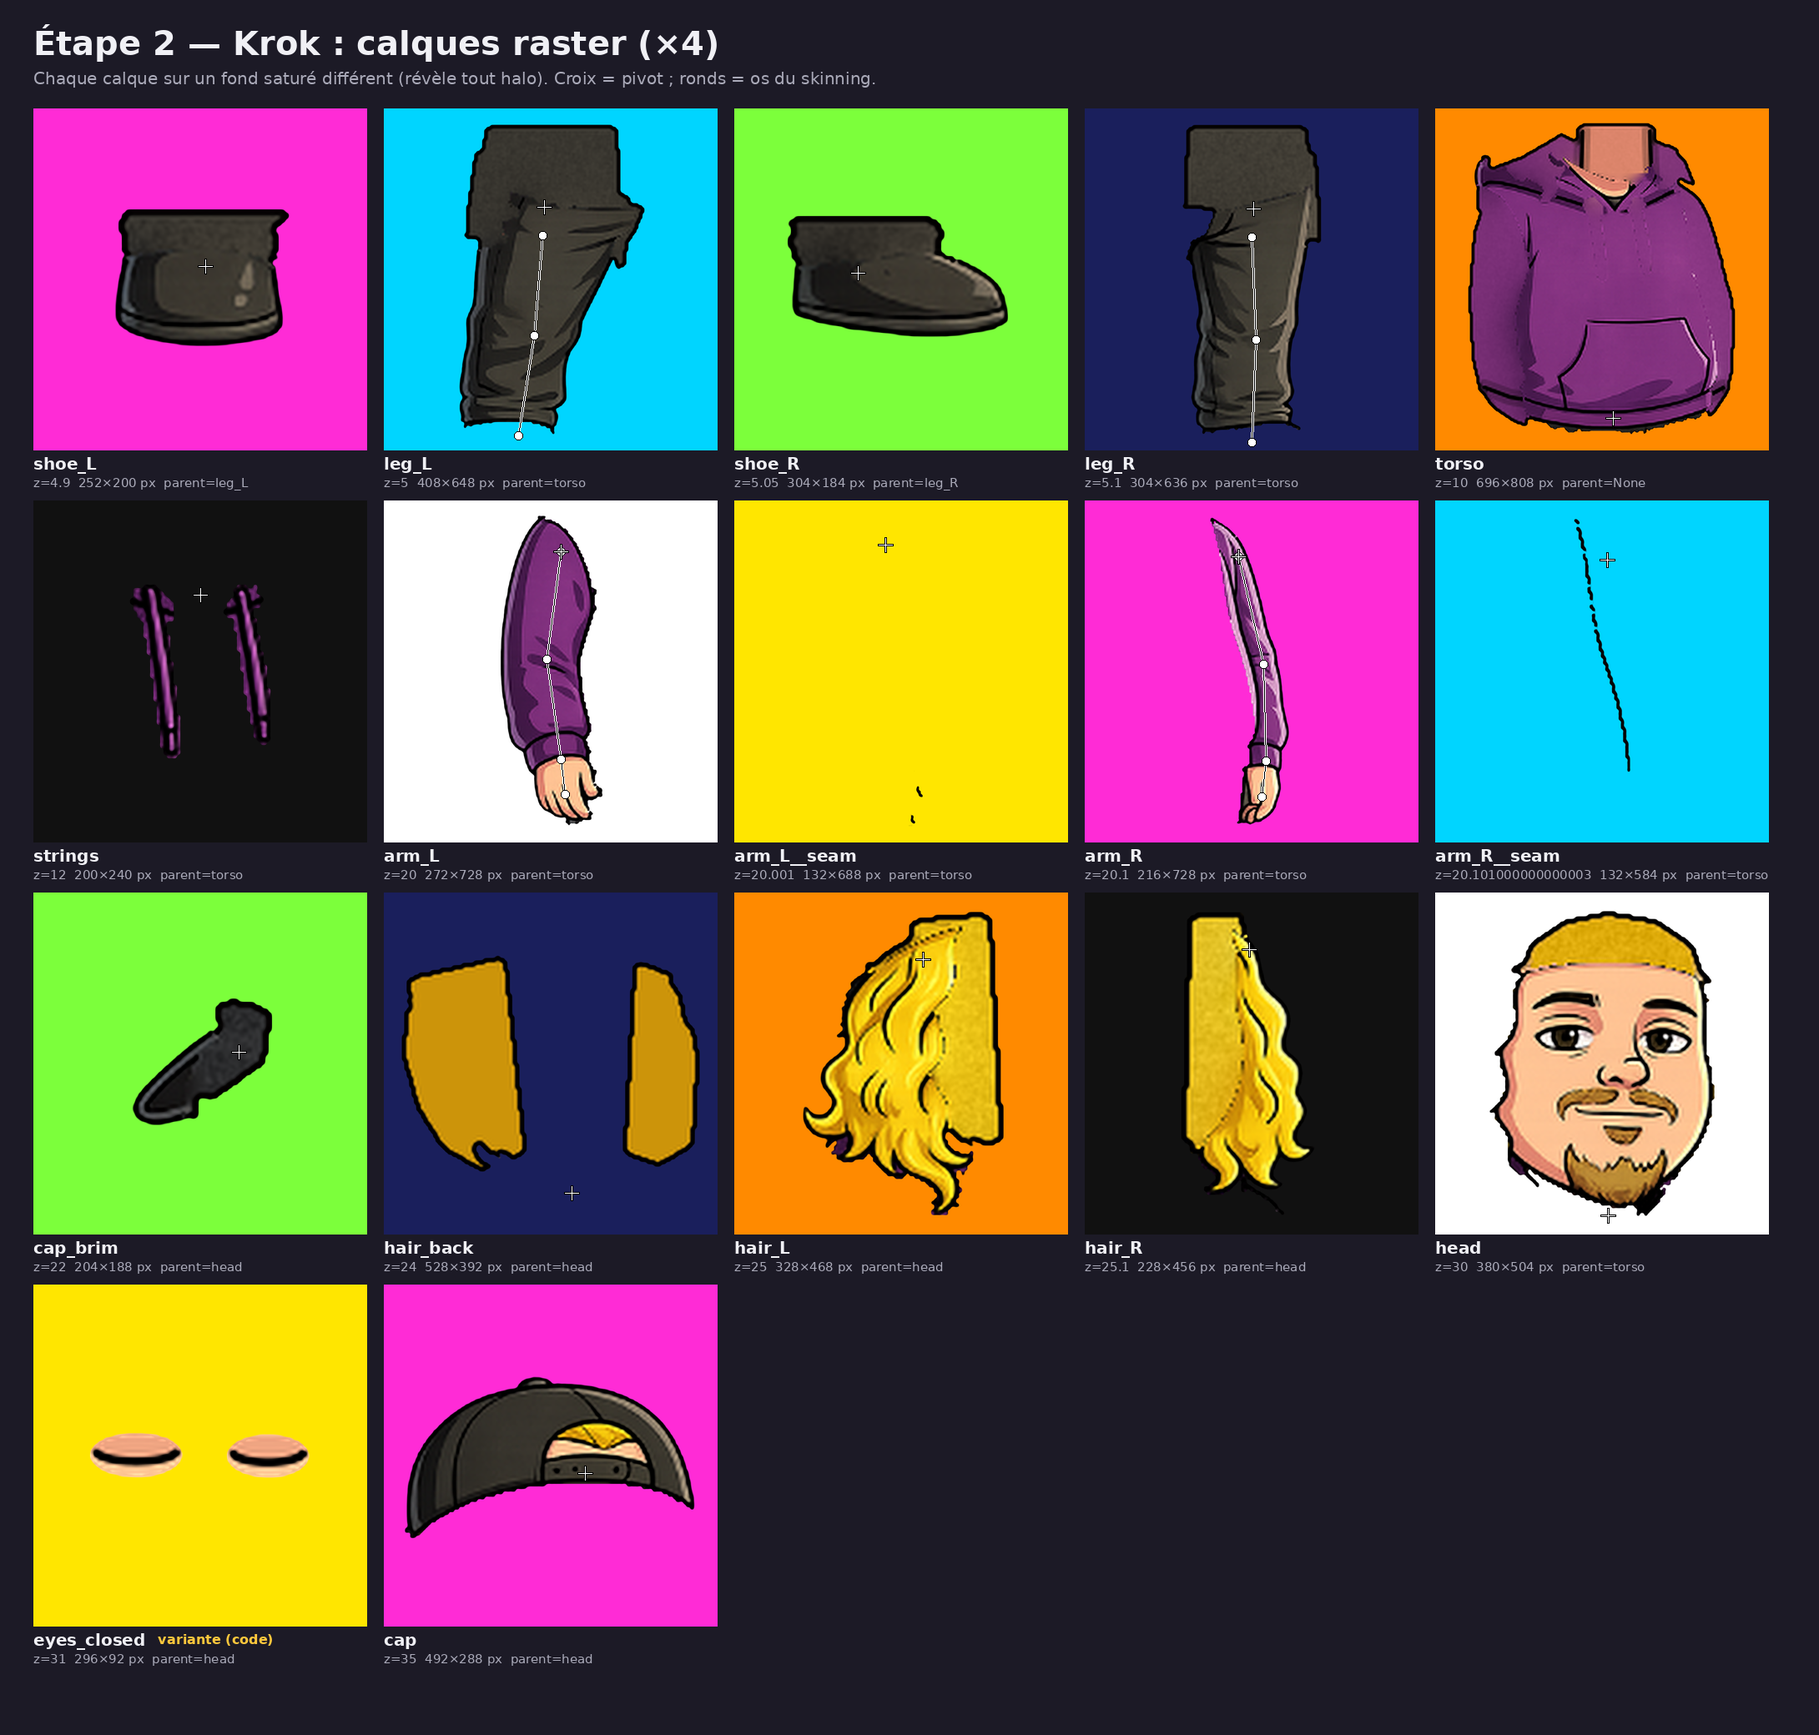
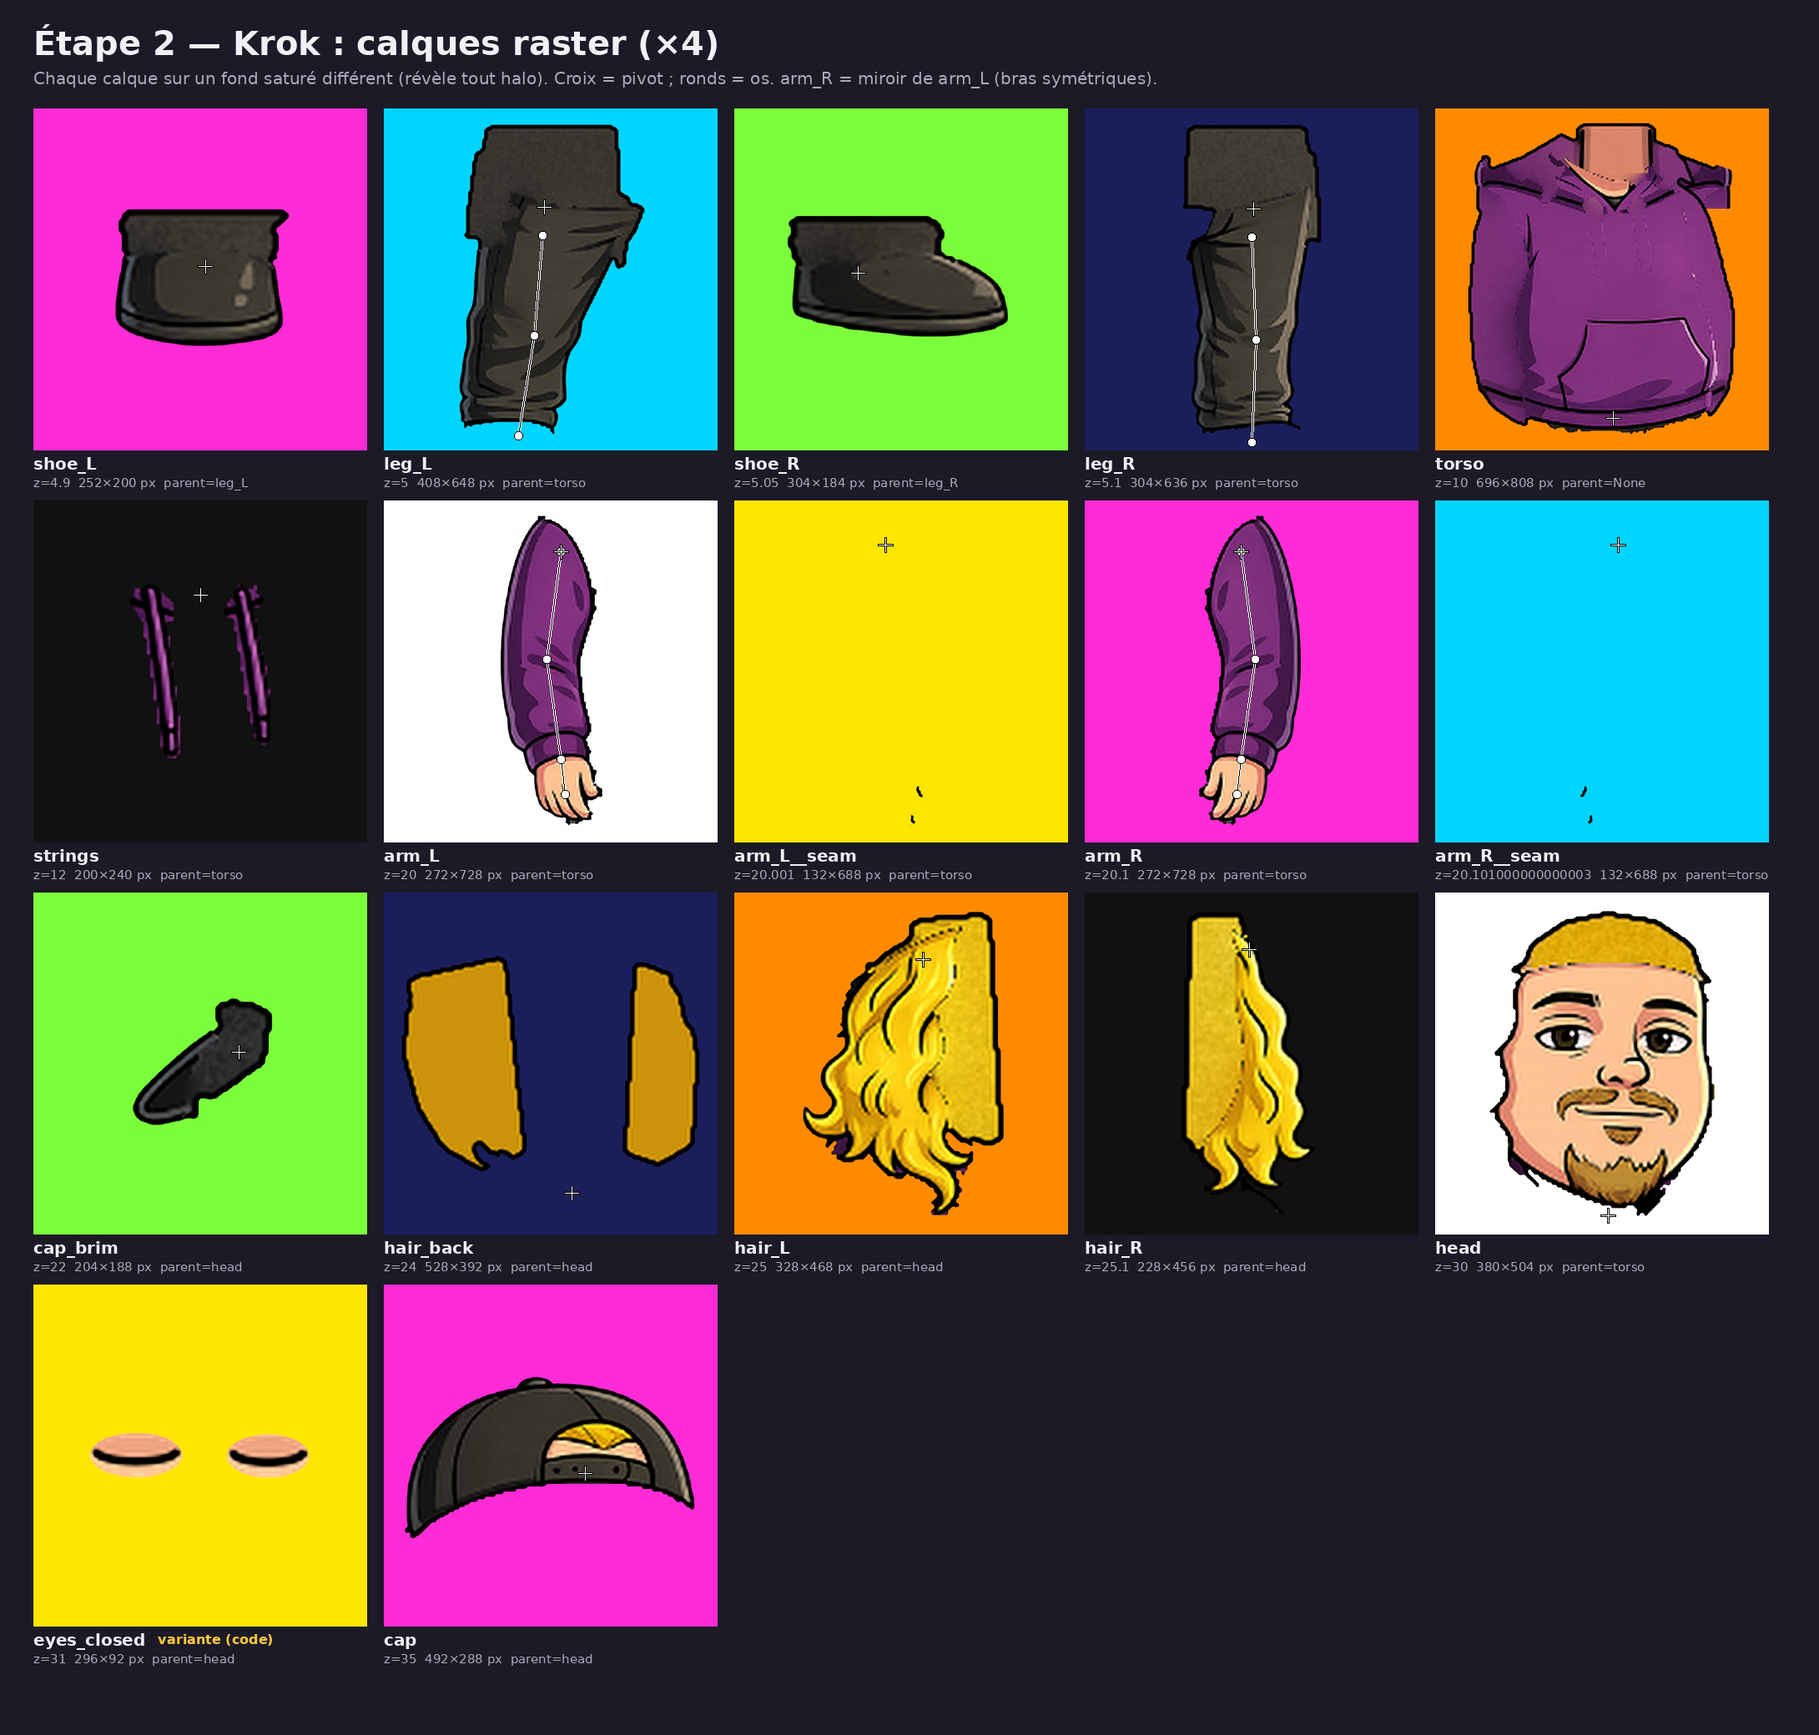
Étape 2 : bras symétriques pour Krok et Mil
Les références de trois-quarts ont un bras bien plus fin que l'autre (Krok :
manche droite de profil ~20 u contre ~46 ; Mil : bras gauche ~22 px contre ~37),
ce qui se voit dès que les bras bougent. Le bras fin est remplacé par le miroir
exact du bras complet, placé à l'épaule opposée (même largeur, même main, même
longueur). Chez Krok, le haut de capuche est recopié en miroir sous la nouvelle
épaule. Contrôle automatique : 0 bord sans encre, vides 43 -> 14 (naturels).

Claude-Session: https://claude.ai/code/session_016mvXePkr8w5udDZGe41u2R

Changed region(s): [[0.655, 0.2812, 0.7174, 0.5], [0.9046, 0.0938, 0.967, 0.125], [0.4367, 0.0312, 0.4679, 0.0625]]

diff --git a/krok-et-mil-intro/tools/charkit/symmetry.py b/krok-et-mil-intro/tools/charkit/symmetry.py
@@ -1,0 +1,104 @@
+"""Symétrisation des bras.
+
+Les références sont dessinées de trois-quarts : un bras est nettement plus fin que l'autre
+(Krok : manche droite vue de profil, ~20 px contre ~45 ; Mil : bras gauche ~22 px contre ~37).
+En animation cet écart saute aux yeux. Le bras fin est donc remplacé par le miroir du bras
+complet, placé à l'épaule opposée (axe de symétrie = milieu des deux épaules).
+
+`shading="mirror"` : le modelé est retourné avec la forme (cas de Krok : le liseré clair passe
+sur le bord extérieur du bras droit, côté de sa lumière de contre-jour).
+`shading="keep"` : la silhouette et les traits sont retournés mais l'ombrage intérieur garde
+le sens d'origine (cas de Mil, éclairé par la gauche : le reflet reste à gauche de chaque bras).
+"""
+import numpy as np
+
+from .img import luminance
+
+
+def mirror_x(L, axis):
+    """Miroir horizontal exact (par indices) d'un calque autour de x = axis (px src)."""
+    h, w = L.shape[:2]
+    out = np.zeros_like(L)
+    k = int(round(2 * axis)) - 1  # x' = k - x
+    xs = np.arange(w)
+    src = k - xs
+    ok = (src >= 0) & (src < w)
+    out[:, xs[ok]] = L[:, src[ok]]
+    return out
+
+
+def mirror_point(p, axis):
+    return (2 * axis - p[0], p[1])
+
+
+def _row_extent(alpha_row, thr=0.5):
+    xs = np.where(alpha_row > thr)[0]
+    if len(xs) == 0:
+        return None
+    return xs.min(), xs.max()
+
+
+def mirror_keep_shading(L, axis, line_lum=0.28):
+    """Silhouette et traits retournés, ombrage intérieur conservé dans son sens d'origine."""
+    M = mirror_x(L, axis)
+    out = M.copy()
+    h, w = L.shape[:2]
+    lumM = luminance(M[..., :3])
+    for y in range(h):
+        eM = _row_extent(M[y, :, 3])
+        eL = _row_extent(L[y, :, 3])
+        if eM is None or eL is None:
+            continue
+        cM = 0.5 * (eM[0] + eM[1])
+        cL = 0.5 * (eL[0] + eL[1])
+        xs = np.arange(eM[0], eM[1] + 1)
+        inner = (M[y, xs, 3] > 0.9) & (lumM[y, xs] > line_lum)
+        if not inner.any():
+            continue
+        src = np.clip(np.round(cL + (xs - cM)).astype(int), eL[0], eL[1])
+        srcok = (L[y, src, 3] > 0.9) & (luminance(L[y, src, :3]) > line_lum)
+        sel = inner & srcok
+        out[y, xs[sel], :3] = L[y, src[sel], :3]
+    return out
+
+
+def symmetrize(layers, parts_meta, rule):
+    """Remplace layers[rule['part']] par le miroir de layers[rule['of']] ; met à jour pivot et os.
+
+    rule = {"part": "arm_R", "of": "arm_L", "axis": 256.0, "shading": "mirror"|"keep"}
+    """
+    if "patch_under" in rule:
+        n = rule["patch_under"]
+        layers[n] = mirror_patch_under(layers[n], rule["poly"], float(rule["axis"]))
+        return layers
+    src, dst, axis = rule["of"], rule["part"], float(rule["axis"])
+    fn = mirror_x if rule.get("shading", "mirror") == "mirror" else mirror_keep_shading
+    layers[dst] = fn(layers[src], axis)
+    if src + "__seam" in layers:
+        layers[dst + "__seam"] = mirror_x(layers[src + "__seam"], axis)
+    smeta = next(m for m in parts_meta if m["name"] == src)
+    dmeta = next(m for m in parts_meta if m["name"] == dst)
+    if "pivot" in smeta:
+        dmeta["pivot"] = mirror_point(smeta["pivot"], axis)
+    if "bones" in smeta:
+        dmeta["bones"] = {k: mirror_point(v, axis) for k, v in smeta["bones"].items()}
+    for k in ("blend", "widen"):
+        dmeta.pop(k, None)
+        if k in smeta:
+            dmeta[k] = smeta[k]
+    dmeta["mirror_of"] = src
+    return layers
+
+
+def mirror_patch_under(L, poly, axis):
+    """Recopie en miroir une zone du calque (polygone, côté source) SOUS le calque existant :
+    seuls les vides du côté opposé sont comblés (ex. haut de capuche au-dessus d'une épaule)."""
+    from .layers import aa_poly_mask
+    m = aa_poly_mask(L.shape[:2], poly)
+    src = L.copy()
+    src[..., 3] *= m
+    P = mirror_x(src, axis)
+    a, pa = L[..., 3:4], P[..., 3:4]
+    oa = a + pa * (1 - a)
+    oc = (L[..., :3] * a + P[..., :3] * pa * (1 - a)) / np.maximum(oa, 1e-6)
+    return np.concatenate([oc, oa], 2)

diff --git a/krok-et-mil-intro/tools/build_characters.py b/krok-et-mil-intro/tools/build_characters.py
@@ -17,6 +17,7 @@ from charkit.segment import segment  # noqa: E402
 from charkit.layers import build_layers, bbox  # noqa: E402
 from charkit import construct_mil as CM  # noqa: E402
 from charkit import expressions as EX  # noqa: E402
+from charkit import symmetry as SY  # noqa: E402
 from charkit import spec_krok, spec_mil  # noqa: E402
 
 UP = 4
@@ -62,6 +63,13 @@ def main():
     t0 = time.time()
     k_img, k_lab, k_layers = build_1x(spec_krok.spec)
     m_img, m_lab, m_layers = build_1x(spec_mil.spec)
+    k_meta = [dict(p) for p in spec_krok.spec["parts"]]
+    m_meta = [dict(p) for p in spec_mil.spec["parts"]]
+    # bras symétriques (les références de trois-quarts ont un bras bien plus fin que l'autre)
+    for rule in spec_krok.spec.get("symmetry", []):
+        SY.symmetrize(k_layers, k_meta, rule)
+    for rule in spec_mil.spec.get("symmetry", []):
+        SY.symmetrize(m_layers, m_meta, rule)
     new, info = CM.construct(m_layers, m_img, k_layers, spec_krok.spec, spec_mil.spec)
     m_layers.update(new)
 
@@ -70,7 +78,6 @@ def main():
     m_layers["eyes_open"] = EX.mil_eyes_open(m_img.shape[:2])
     m_layers["eyes_closed"] = EX.mil_eyes_closed(m_img.shape[:2])
 
-    k_meta = [dict(p) for p in spec_krok.spec["parts"]]
     k_meta.append({"name": "eyes_closed", "z": 31, "parent": "head", "pivot": (262, 186), "variant": True})
     krok_extra = {
         "top_y": spec_krok.TOP_Y, "sole_y": spec_krok.SOLE_Y, "ground_x": 256.0,
@@ -80,7 +87,6 @@ def main():
     }
     export("krok", k_img, k_layers, k_meta, krok_extra)
 
-    m_meta = [dict(p) for p in spec_mil.spec["parts"]]
     m_meta += [
         {"name": "leg_L", "z": 5, "parent": "torso", "pivot": CM.mil_leg_bones("L")["hip"], "constructed": True,
          "bones": CM.mil_leg_bones("L")},

diff --git a/krok-et-mil-intro/tools/review/make_sheets.py b/krok-et-mil-intro/tools/review/make_sheets.py
@@ -221,7 +221,7 @@ def poses_sheet():
     page = to_pil(arr[..., :3])
     d = ImageDraw.Draw(page)
     d.text((40, 28), "Étape 2 — poses test du rig (déformation par maillage, zones cachées reconstruites)", font=font(40, True), fill=TXT)
-    d.text((40, 82), "« course » est rendue en miroir horizontal. Contrôle automatique sur 34 poses : voir etape2_controles_auto.png.", font=font(20), fill=DIM)
+    d.text((40, 82), "« course » est rendue en miroir horizontal. Contrôle automatique sur 38 rendus (19 poses × 2) : voir etape2_controles_auto.png.", font=font(20), fill=DIM)
     for i, (nm, _) in enumerate(poses):
         d.text((240 + i * 480 - 80, 140), nm, font=font(24, True), fill=(255, 255, 255))
     path = os.path.join(OUT, "etape2_poses_test.png")
@@ -230,7 +230,7 @@ def poses_sheet():
 
 
 if __name__ == "__main__":
-    for f in (layer_sheet("krok", "Étape 2 — Krok : calques raster (×4)", "Chaque calque sur un fond saturé différent (révèle tout halo). Croix = pivot ; ronds = os du skinning."),
-              layer_sheet("mil", "Étape 2 — Mil : calques raster (×4)", "Jambes, chaussures, poignets et mains construits en code (même trait/grain que Krok, pantalon recoloré)."),
+    for f in (layer_sheet("krok", "Étape 2 — Krok : calques raster (×4)", "Chaque calque sur un fond saturé différent (révèle tout halo). Croix = pivot ; ronds = os. arm_R = miroir de arm_L (bras symétriques)."),
+              layer_sheet("mil", "Étape 2 — Mil : calques raster (×4)", "Jambes, chaussures, poignets, mains construits en code ; arm_L = miroir de arm_R (bras symétriques)."),
               control_sheet(), poses_sheet()):
         print(f)

diff --git a/krok-et-mil-intro/tools/charkit/spec_krok.py b/krok-et-mil-intro/tools/charkit/spec_krok.py
@@ -97,8 +97,7 @@ parts = [
         "polys": [[(301, 186), (352, 196), (350, 330), (340, 358), (323, 360), (318, 352), (320, 330), (323, 300), (316, 262), (309, 232), (304, 205)]],
         "pivot": (318, 206),
         "bones": {"shoulder": (318, 206), "elbow": (332, 266), "wrist": (333, 320), "hand": (331, 340)},
-        "blend": {"shoulder": 18.0},
-        "widen": {"k": 1.75, "a0": 15.0, "a1": 85.0, "ramp": 16.0},
+
     },
     {
         "name": "cap_brim", "z": 22, "parent": "head", "prio": 50,
@@ -163,4 +162,10 @@ overrides = [
 ]
 
 spec = {"name": NAME, "src": SRC, "parts": parts, "barriers": barriers, "overrides": overrides,
-        "top_y": TOP_Y, "sole_y": SOLE_Y, "rim_w": 1.9, "underlay": 3}
+        "top_y": TOP_Y, "sole_y": SOLE_Y, "rim_w": 1.9, "underlay": 3,
+        # bras droit = miroir du bras gauche (la manche droite de la référence, vue de profil, est
+        # ~2,3× plus fine) ; axe = milieu du corps (flancs reconstruits x≈177 et x≈335)
+        "symmetry": [{"part": "arm_R", "of": "arm_L", "axis": 256.0, "shading": "mirror"},
+                     # capuche au-dessus de l'épaule gauche recopiée sous le torse à droite (comble le
+                     # vide entre la capuche étroite de la référence et l'épaule symétrisée)
+                     {"patch_under": "torso", "poly": [(150, 200), (160, 184), (176, 176), (200, 168), (226, 162), (230, 200)], "axis": 256.0}]}

diff --git a/krok-et-mil-intro/tools/charkit/construct_mil.py b/krok-et-mil-intro/tools/charkit/construct_mil.py
@@ -159,7 +159,6 @@ def mil_leg_bones(side):
     k = MIRROR_SRC[side]
     return {"hip": pants_pt_mirror(*K_HIP[k]), "knee": pants_pt_mirror(*K_KNEE[k]), "ankle": pants_pt_mirror(*K_ANKLE[k])}
 
-HAND_SX = {"L": 1.00, "R": 1.12}
 HAND_SY = 1.27
 
 
@@ -251,11 +250,15 @@ def construct(mil_layers, mil_img, krok_layers, krok_spec, mil_spec):
     hand[..., 3] *= hm
     K_HAND_TOP = (191.0, 322.0)
     K_HAND_TOP_W = 30.0
-    for side, (fx0, fx1), mirror in (("L", (160.0, 187.5), False), ("R", (305.5, 340.0), True)):
+    for side, mirror in (("L", False), ("R", True)):
         arm = mil_layers["arm_" + side].copy()
+        # bords de l'avant-bras mesurés juste au-dessus de la coupe du cadre (y=496)
+        cols = np.where(arm[496, :, 3] > 0.5)[0]
+        fx0, fx1 = float(cols.min()), float(cols.max() + 1)
         cx = 0.5 * (fx0 + fx1)
         fw = fx1 - fx0
-        sx, sy = HAND_SX[side], HAND_SY
+        # même main des deux côtés : largeur réglée sur le poignet (avant-bras symétriques)
+        sx, sy = round(fw * 0.97 / 30.0, 3), HAND_SY
         ww = K_HAND_TOP_W * sx
         E = 10.0
         y_src, y_cut = 496.0, 499.0

diff --git a/krok-et-mil-intro/tools/charkit/spec_mil.py b/krok-et-mil-intro/tools/charkit/spec_mil.py
@@ -92,4 +92,7 @@ barriers = [
 overrides = []
 
 spec = {"name": NAME, "src": SRC, "parts": parts, "barriers": barriers, "overrides": overrides,
-        "top_y": TOP_Y, "pad_bottom": PAD_BOTTOM, "rim_w": 2.4, "underlay": 3}
+        "top_y": TOP_Y, "pad_bottom": PAD_BOTTOM, "rim_w": 2.4, "underlay": 3,
+        # bras gauche = miroir du bras droit (le gauche de la référence est ~1,7× plus fin) ;
+        # axe = milieu des deux épaules ; modelé symétrique (bords extérieurs plus sombres)
+        "symmetry": [{"part": "arm_L", "of": "arm_R", "axis": 250.0, "shading": "mirror"}]}

diff --git a/krok-et-mil-intro/CHARACTER_SHEET.md b/krok-et-mil-intro/CHARACTER_SHEET.md
@@ -46,7 +46,7 @@ de taille dans tous les plans.
 | Pupilles (centres de l'iris) | (244,5 ; 117) et (281,5 ; 117) → 37 | regard centré, très légèrement vers la gauche de l'image |
 | Épaules / buste | ≈ 182 de large | hoodie ample, arrondi en tonneau |
 | Jambes visibles (ourlet → semelle) | ≈ 140 (33 %) | jambes courtes, légèrement écartées, pied droit tourné vers l'extérieur |
-| Pose de référence | de face, buste très légèrement tourné vers la gauche de l'image (manche droite vue de profil, étroite) | |
+| Pose de référence | de face, buste très légèrement tourné vers la gauche de l'image (manche droite vue de profil, étroite) | dans le rig, bras rendus symétriques (§5) |
 
 ### Palette (hex échantillonnés)
 
@@ -185,6 +185,16 @@ flancs du buste et coins bas du hoodie sous les bras, cou sous le menton, capuch
 mèches, haut des jambes sous l'ourlet, pantalon sous les mains, intérieur de cuisse, crâne sous
 la casquette / la frange, haut des chaussures sous le pantalon, cheveux sous l'arceau du casque.
 
+**Bras symétriques.** Les références sont de trois-quarts : un bras y est beaucoup plus fin que
+l'autre (Krok : manche droite vue de profil, ~20 u contre ~46 u ; Mil : bras gauche ~22 px-Mil
+contre ~37). Immobile, cela se lit comme de la perspective ; en mouvement, on voit un bras plus
+petit que l'autre. Le bras fin est donc remplacé par le **miroir exact du bras complet**, placé à
+l'épaule opposée (axe = milieu du corps : Krok x = 256, Mil x = 250) : même largeur ligne à ligne,
+même main, même longueur. Chez Krok, le haut de capuche au-dessus de l'épaule gauche est recopié
+en miroir sous le torse à droite pour que la nouvelle épaule s'y raccorde. Au repos, la silhouette
+devient donc de face (épaules symétriques) au lieu d'un léger trois-quarts ; le visage, les cheveux,
+la casquette et le casque restent strictement ceux des références.
+
 Règles automatiques appliquées à tous les calques :
 - **sous-couche** : chaque calque se prolonge de 3 px sous les calques du dessus → aucune couture
   semi-transparente au repos ;
@@ -211,10 +221,7 @@ Règles automatiques appliquées à tous les calques :
 
 - Références de face uniquement : pas de vrai profil ni de dos (plans remplacés par
   face/trois-quarts, miroir, échelle, caméra).
-- Bras levés : propres jusqu'à ~110°, sauf la **manche droite de Krok** (vue de profil, très
-  étroite) : le moteur l'élargit progressivement quand elle se lève (×1,75 à 85°) pour éviter
-  l'effet « spaghetti », mais au-delà de **90°** sa racine se dentelle. Limite retenue : 90° pour ce
-  bras ; les gestes amples (high-five, bras levé) se feront avec le bras gauche de Krok.
+- Bras levés : propres jusqu'à ~110° pour les quatre bras (voir « Bras symétriques » au §5).
 - Plages validées par le contrôle automatique (`tools/review/checks.py`, 19 poses × 2) : tête
   ±6°, balancier des cheveux ±8°, hanches ±20°, genoux ±30°, squash 0,9–1,1, chevilles ±25°.
   Aucun bord sans encre. Les « trous » restants sont des espaces négatifs naturels (fond vu
